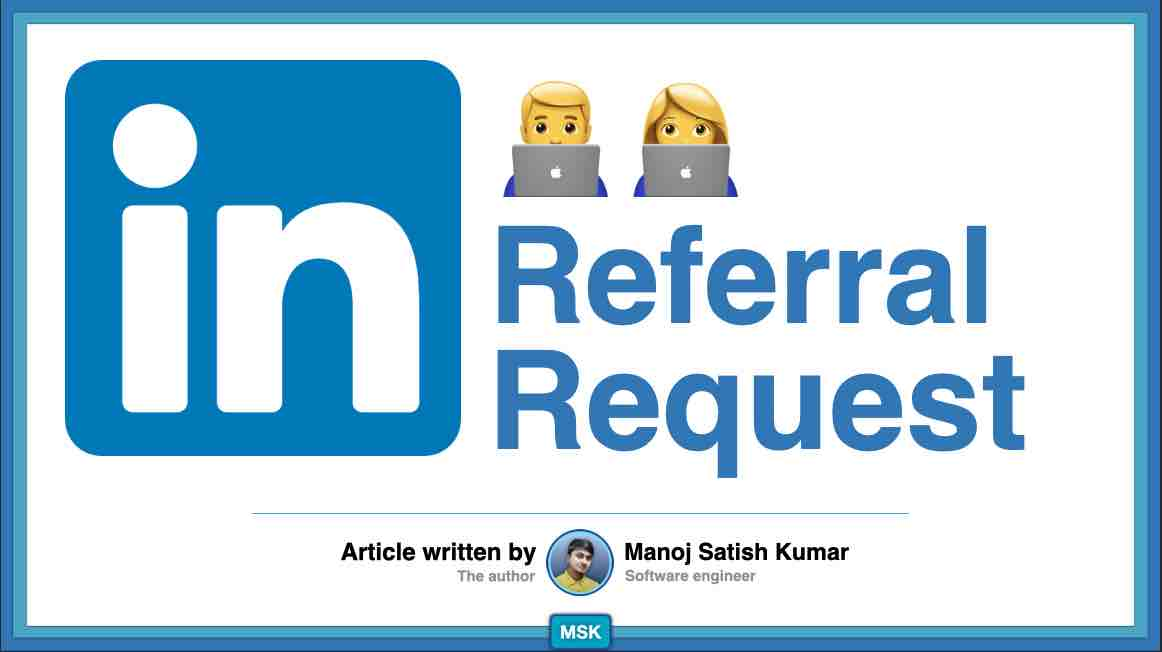
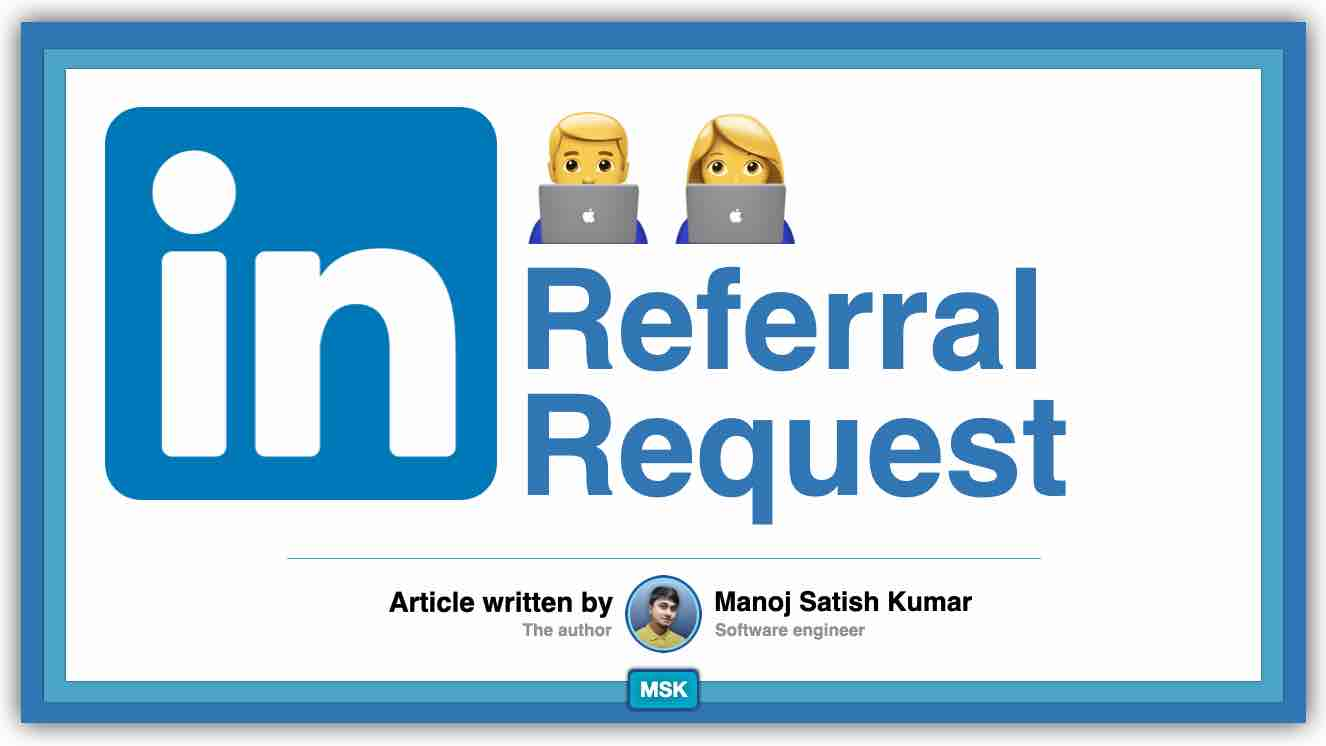
auto push commit

diff --git a/blog/all-articles.html b/blog/all-articles.html
@@ -5,7 +5,7 @@
                 <a style=" color: black;" href="linkedin-job-referral.html">
                     <div class=" row">
                         <div class="container">
-                            <img style="width: 95%; border: 1px solid gray; margin-bottom: 10px;"
+                            <img style="width: 95%;  margin-bottom: 10px;"
                                 src="/images/blogs/linkedin-job-referral.jpg" />
                         </div>
                         <div class="container">

diff --git a/blog/linkedin-job-referral.html b/blog/linkedin-job-referral.html
@@ -63,7 +63,7 @@
             </h2>
             <div style="margin-top: 10px;">Written by <a href="https://manojsatishkumar.com/profile/index.html">Manoj
                 Satish Kumar</a></div>
-            <img style="width: 100%; margin-top: 20px; border: 1px solid gray; margin-bottom: 30px; "
+            <img style="width: 100%; margin-top: 20px; margin-bottom: 30px; "
               src="/images/blogs/linkedin-job-referral.jpg" />
             <div class="row ">
               <div class="container">

diff --git a/blog/template.html b/blog/template.html
@@ -57,7 +57,7 @@
             </h2>
             <div style="margin-top: 10px;">Written by <a href="https://manojsatishkumar.com/profile/index.html">Manoj
                 Satish Kumar</a></div>
-            <img style="width: 100%; margin-top: 20px; border: 1px solid gray; margin-bottom: 30px; "
+            <img style="width: 100%; margin-top: 20px;  margin-bottom: 30px; "
               src="/images/blogs/.jpg" />
             <div class="row ">
               <div class="container">
